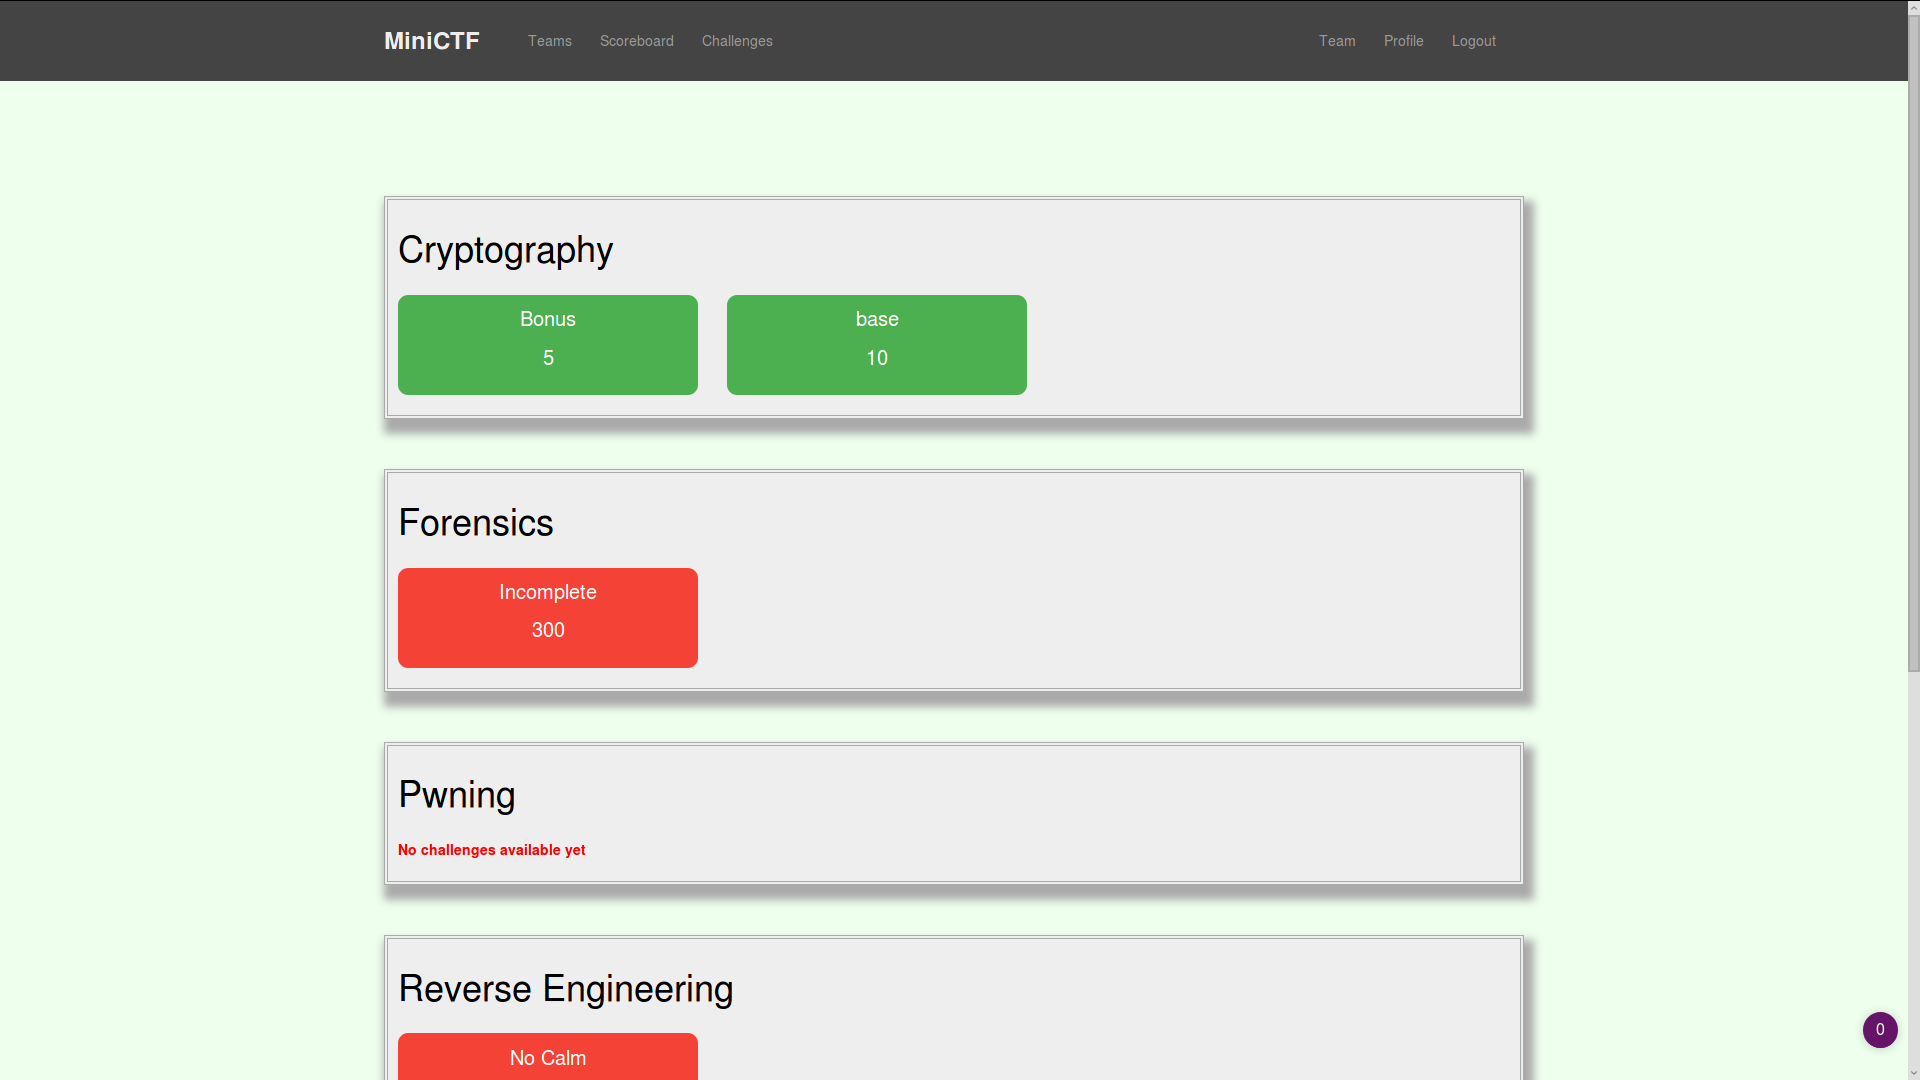
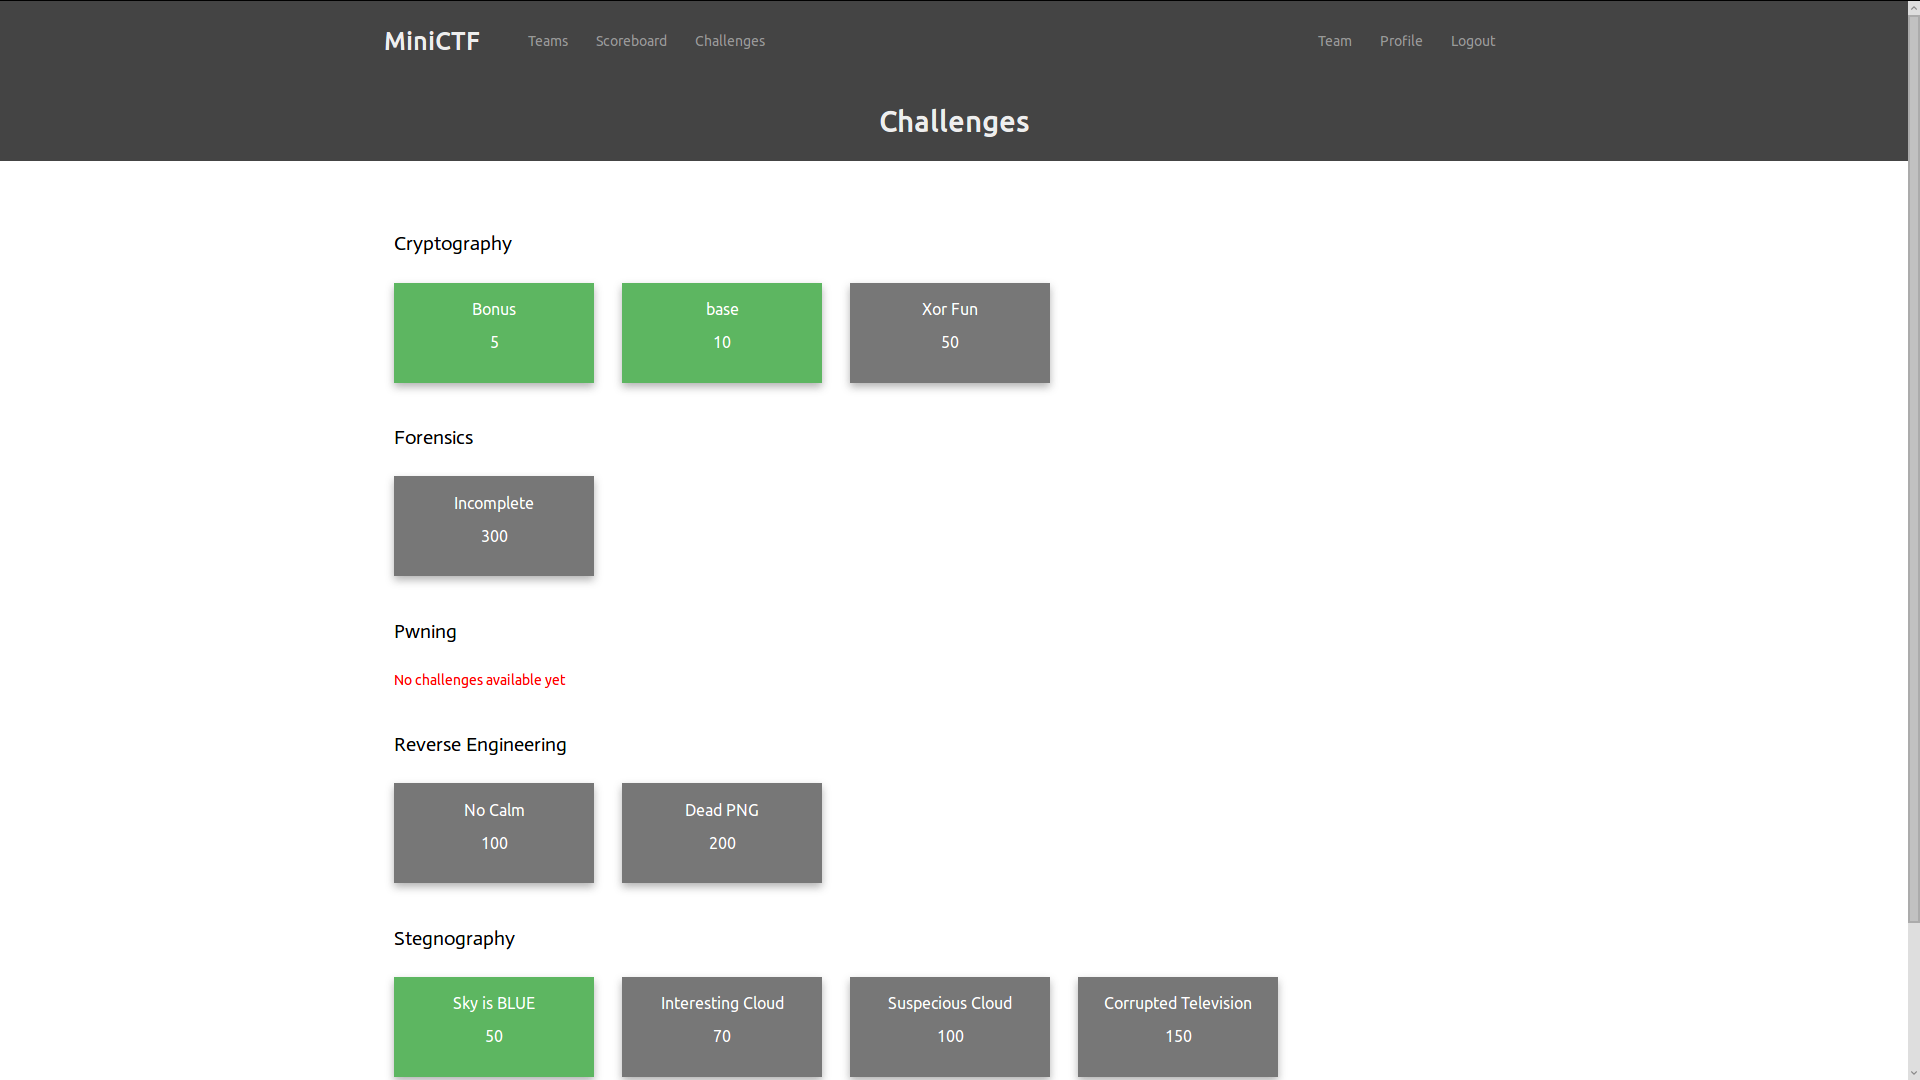
design changed

diff --git a/challenges/templates/challenges.html b/challenges/templates/challenges.html
@@ -13,13 +13,18 @@
 {% block custombody %}
 
 	<!-- challenges display -->
+
+	<div id="pageHeading">
+		<p>Challenges</p>
+	</div>
+
 	<div id="challenges">
 		<div class="container">
 			<div class="challengesSet">
 				
 				<div id="crypto">
 					<div class="heading">
-						<h1>Cryptography</h1>
+						<p>Cryptography</p>
 					</div>
 					{% if data_crypto %}
 						{% for mission in data_crypto %}
@@ -82,13 +87,13 @@
 						{% endfor %}
 
 					{% else %}
-						<p style="color: red"><b>No challenges available yet</b></p>
+						<p style="color: red">No challenges available yet</p>
 					{% endif %}
 				</div>
 
 				<div id="for">
 					<div class="heading">
-						<h1>Forensics</h1>
+						<p>Forensics</p>
 					</div>
 					{% if data_for %}
 						{% for mission in data_for %}
@@ -151,13 +156,13 @@
 						{% endfor %}
 
 					{% else %}
-						<p style="color: red"><b>No challenges available yet</b></p>
+						<p style="color: red">No challenges available yet</p>
 					{% endif %}
 				</div>
 
 				<div id="pwn">
 					<div class="heading">
-						<h1>Pwning</h1>
+						<p>Pwning</p>
 					</div>
 					{% if data_pwn %}
 						{% for mission in data_pwn %}
@@ -220,13 +225,13 @@
 						{% endfor %}
 
 					{% else %}
-						<p style="color: red"><b>No challenges available yet</b></p>
+						<p style="color: red">No challenges available yet</p>
 					{% endif %}
 				</div>
 
 				<div id="re">
 					<div class="heading">
-						<h1>Reverse Engineering</h1>
+						<p>Reverse Engineering</p>
 					</div>
 					{% if data_re %}
 						{% for mission in data_re %}
@@ -289,13 +294,13 @@
 						{% endfor %}
 
 					{% else %}
-						<p style="color: red"><b>No challenges available yet</b></p>
+						<p style="color: red">No challenges available yet</p>
 					{% endif %}
 				</div>
 
 				<div id="stego">
 					<div class="heading">
-						<h1>Stegnography</h1>
+						<p>Stegnography</p>
 					</div>
 					{% if data_stego %}
 						{% for mission in data_stego %}
@@ -358,13 +363,13 @@
 						{% endfor %}
 
 					{% else %}
-						<p style="color: red"><b>No challenges available yet</b></p>
+						<p style="color: red">No challenges available yet</p>
 					{% endif %}				
 				</div>
 
 				<div id="web">
 					<div class="heading">
-						<h1>Web</h1>
+						<p>Web</p>
 					</div>
 					{% if data_web %}
 						{% for mission in data_web %}
@@ -427,7 +432,7 @@
 						{% endfor %}
 
 					{% else %}
-						<p style="color: red"><b>No challenges available yet</b></p>
+						<p style="color: red">No challenges available yet</p>
 					{% endif %}
 				</div>
 

diff --git a/challenges/static/css/challenges.css b/challenges/static/css/challenges.css
@@ -1,6 +1,23 @@
 #challenges {
-	margin-top: 5%;
+	margin-top: 2%;
 	color:#000;
+}
+
+#pageHeading {
+	width: 100%;
+	height: 80px;
+	background-color: #444;
+	color: #eee;
+	text-align: center;
+	line-height: 80px;
+	vertical-align: middle;
+	font-size: 28px;
+	font-weight: bold;
+}
+
+.heading p {
+	font-size: 20px;
+	font-family: 'ABeeZee'
 }
 
 .challengesSet {
@@ -13,27 +30,29 @@
 }
 
 #crypto, #for, #pwn, #re, #stego, #web {
-	border: 4px double #aaa;
+	/*border-bottom: 4px double #aaa;
+	border-left: 4px double #aaa;*/
 	padding: 10px;
-	margin-bottom: 50px;
-	background-color: #eee;
-	box-shadow: 5px 10px 8px 5px #aaa;
+	margin-bottom: 10px;
+	/*background-color: #eee;
+	box-shadow: 5px 10px 8px 5px #aaa;*/
 }
 
 .mission {
 	height: 100px;
-	width: 300px;
+	width: 200px;
 	display: inline-block;
-	background-color: #f44336;
+	background-color: #696969;
 	transition: 0.5s;
 	text-align: center;
-	font-size: 20px;
-	border-radius: 10px;
+	font-size: 16px;
 	cursor: pointer;
 	color: #fff;
-	padding-top: 10px;
+	padding-top: 15px;
 	margin-right: 25px;
 	margin-bottom: 10px;
+	opacity: 0.9;
+	box-shadow: 0 4px 8px 0 #aaa;
 }
 
 .solved {
@@ -41,8 +60,7 @@
 }
 
 .mission:hover {
-	background-color: #008cba;
-	color: #fff;
+	opacity: 1; 
 }
 
 .modal a {
@@ -55,6 +73,7 @@
 
 .modal {
 	margin-top: 10%;
+	font-family: 'ABeeZee';
 }
 
 .input_flag {
@@ -67,21 +86,23 @@
 
 .input_flag_button {
 	height: 40px;
-	background-color: #008cba;
 	border: 0;
 	width: 100px;
-	color: #fff;
+	color: #222;
+	background-color: #fff;
+	border: 2px solid #444;
+	display: inline-block;
 	font-size: 16px;
 	text-decoration: none;
-	display: inline-block;
 	transition: 0.5s;
-	box-shadow: 0px 8px 16px 0px rgba(0,0,0,0.2);
+	/*box-shadow: 0px 8px 16px 0px rgba(0,0,0,0.2);*/
 	margin-left: 5px;
+	float: right;
 }
 
 .input_flag_button:hover {
-	background-color: #fff;
-	color: #000;
+	background-color: #444;
+	color: #fff;
 	border: 1px solid #008cba;
 }
 

diff --git a/templates/navigationbar.html b/templates/navigationbar.html
@@ -12,6 +12,8 @@
 
 	<link rel="stylesheet" type="text/css" href="{% static 'bootstrap/bootstrap.min.css' %}">
 	<link rel="stylesheet" type="text/css" href="{% static 'css/navigationbar.css' %}">
+	<link href='https://fonts.googleapis.com/css?family=Ubuntu' rel='stylesheet'>
+	<link href='https://fonts.googleapis.com/css?family=ABeeZee' rel='stylesheet'>
 	<script type="text/javascript" src="{% static 'js/jquery-3.2.1.min.js' %}"></script>
 	<script type="text/javascript" src="{% static 'js/bootstrap.min.js' %}"></script>
 

diff --git a/static/css/navigationbar.css b/static/css/navigationbar.css
@@ -1,5 +1,6 @@
 body {
-	background-color: #efe;
+	background: linear-gradient(#fffaf0);
+	font-family: 'Ubuntu';
 }
 
 a {
